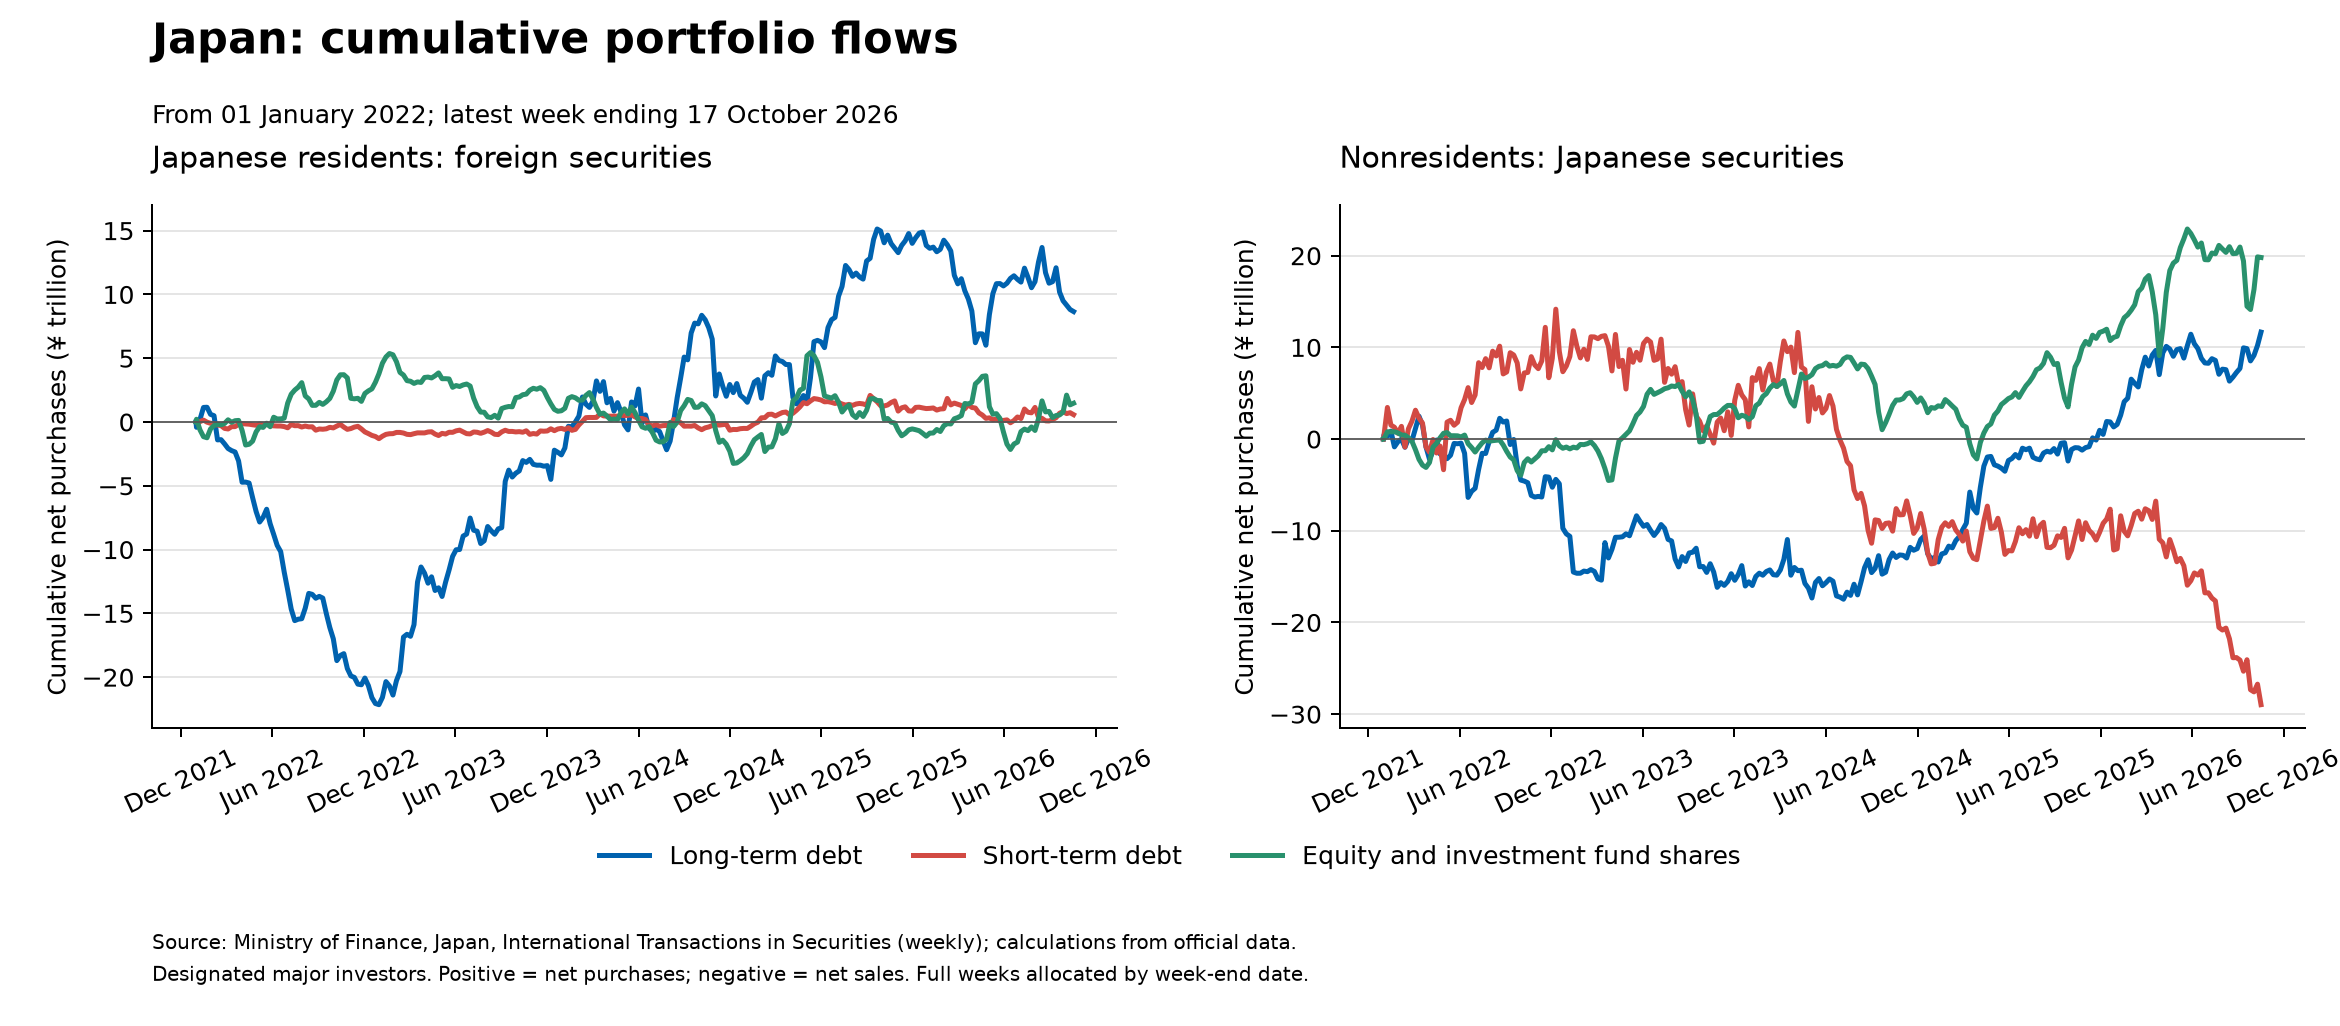
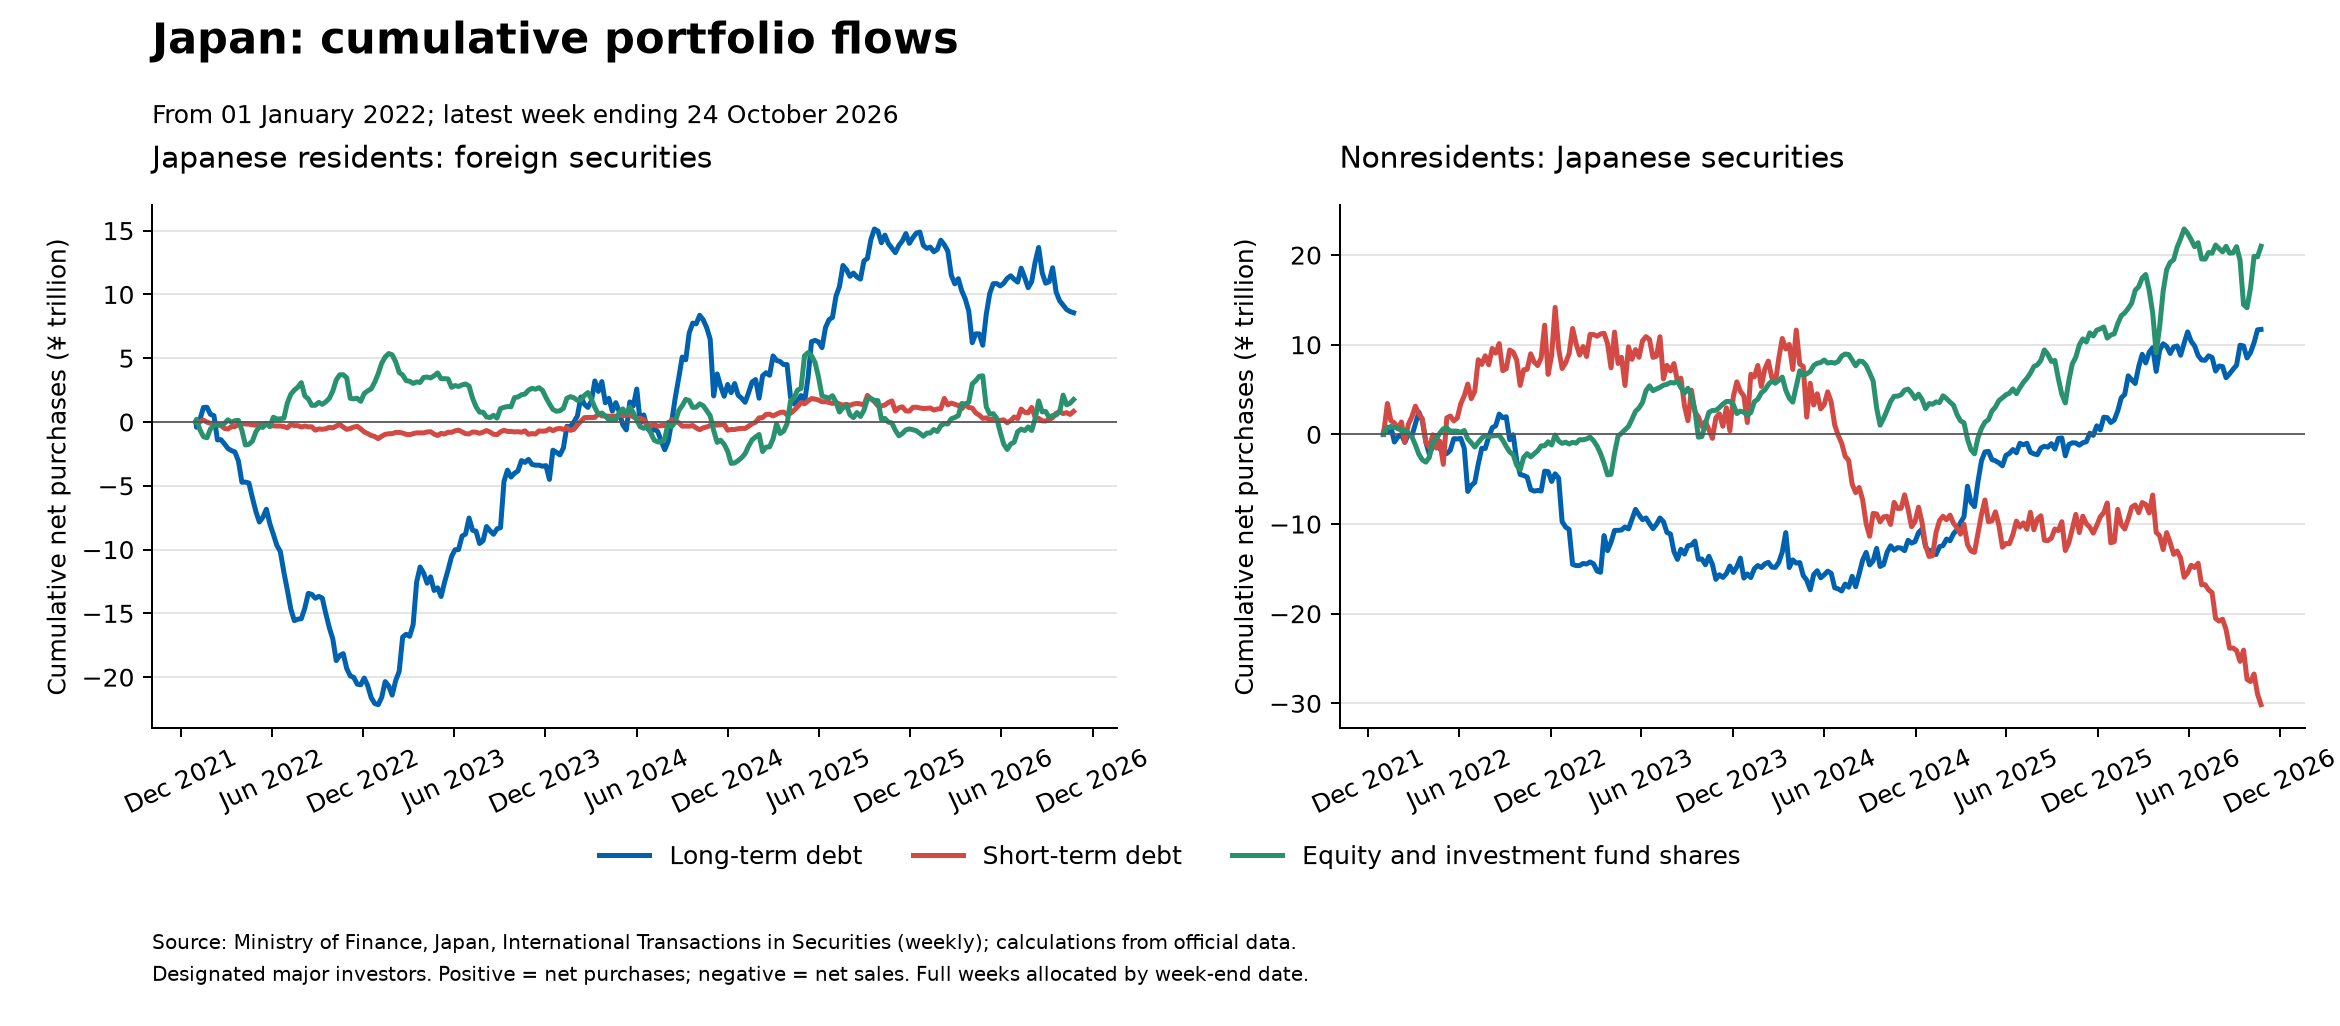
Refresh approved Japan portfolio charts and display status

diff --git a/public/reports/japan-portfolio/index.html b/public/reports/japan-portfolio/index.html
@@ -1,4 +1,4 @@
 <!doctype html><html lang="en"><head><meta charset="utf-8"><meta name="viewport" content="width=device-width,initial-scale=1"><title>Japan portfolio flows — Daily Market Monitor</title>
 <style>:root{color-scheme:light dark;--bg:#f4f6f8;--fg:#243746;--card:white;--border:#dce4ea;--muted:#596b78;--accent:#183f5c}@media(prefers-color-scheme:dark){:root{--bg:#020617;--fg:#e2e8f0;--card:#0f172a;--border:#475569;--muted:#94a3b8;--accent:#c7d2fe}}*{box-sizing:border-box}body{margin:0;background:var(--bg);color:var(--fg);font:15px/1.55 system-ui,sans-serif}main{max-width:1500px;margin:auto;padding:30px 28px}h1{font-size:29px;color:var(--accent);margin:0 0 8px}h2{font-size:21px;color:var(--accent)}.intro,.source{color:var(--muted)}.card{background:var(--card);border:1px solid var(--border);border-radius:12px;padding:24px;margin:24px 0}.notice{border-left:4px solid #b65330;padding:14px 20px}.source{font-size:12px;overflow-wrap:anywhere}img{width:100%;height:auto;display:block;background:white;border-radius:6px}a{color:var(--accent)}@media(max-width:650px){main{padding:18px 10px}.card{padding:15px 10px}h1{font-size:24px}}</style></head><body><main><p><a href="../../">← Daily Market Monitor</a></p><h1>Japan portfolio flows</h1><p class="intro">Cross-border investment and domestic JGB purchases · yen trillion</p>
-<div class="card notice"><strong>complete / live sources checked</strong><p>Live source check attempted: 2026-10-27T16:11:16.835830+00:00. Observation dates and input vintage are shown per chart. “Unchanged” means values match the previous successful source check; it does not imply a new observation. Failures retain the last complete component and show a warning. Click a chart for its full-resolution PNG.</p></div>
-<section class="card"><h2>Cross-border portfolio flows since 2022</h2><p>Cumulative net purchases from January 2022, yen trillion. Residents: foreign equities +1.47, foreign long-term debt +8.66, foreign short-term debt +0.57. Nonresidents: Japanese equities +19.80, Japanese long-term debt +11.66, Japanese short-term debt -28.97. Positive values mean net purchases; negative values mean net sales.</p><p class="source">MOF weekly securities transactions · Latest observation: 2026-10-17 · Status: unchanged · New periods: 0 · Prior history revised: False · Last successful check: 2026-10-27T16:11:16.835830+00:00 · Final Update  October  22 , 2026</p><p></p><a href="portfolio_flows.png"><img src="portfolio_flows.png" alt="Cross-border portfolio flows since 2022" loading="lazy"></a></section><section class="card"><h2>Cross-border portfolio flows rebased to 2026</h2><p>Cumulative net purchases from January 2026, yen trillion. Residents: foreign equities +2.58, foreign long-term debt -5.18, foreign short-term debt -0.48. Nonresidents: Japanese equities +8.72, Japanese long-term debt +10.34, Japanese short-term debt -16.87. Positive values mean net purchases; negative values mean net sales.</p><p class="source">MOF weekly securities transactions · Latest observation: 2026-10-17 · Status: unchanged · New periods: 0 · Prior history revised: False · Last successful check: 2026-10-27T16:11:16.835830+00:00 · Final Update  October  22 , 2026</p><p></p><a href="portfolio_flows_recent.png"><img src="portfolio_flows_recent.png" alt="Cross-border portfolio flows rebased to 2026" loading="lazy"></a></section><section class="card"><h2>Who is buying coupon-bearing JGBs?</h2><p>Rolling five calendar month net purchases, yen trillion; displayed since 2022. Latest all coupon-bearing totals — City banks &amp; long-term credit banks: +0.11; Foreign investors: +5.53; Life &amp; non-life insurers: +2.42; Others (JSDA category): -25.75; Regional banks: +2.15; Trust banks: +7.77. Super-long-, long- and medium-term maturity groups are shown separately. Nominal/face value; excludes Treasury bills and discount bonds. Others (JSDA category) uses the six directly reported Others purchase/sale series, not overall minus the displayed sectors. This mixed category includes government auction allocations, BoJ operations and other institutions. It is not pure BoJ activity or aggregate private investor demand. Net purchases are purchases minus sales from the investor/counterparty perspective.</p><p class="source">JSDA via Haver Analytics · Latest observation: 2026-09-30 · Status: unchanged · New periods: 0 · Prior history revised: False · Last successful check: 2026-10-27T16:11:16.835830+00:00 · Haver snapshot: 2026-10-27T15:30:12+00:00 · Source commit: 074dcfe4561a15bbd37a59e05f33df341b8ff2ac</p><p></p><a href="jsda/rolling_jgb_purchases.png"><img src="jsda/rolling_jgb_purchases.png" alt="Who is buying coupon-bearing JGBs?" loading="lazy"></a></section><section class="card"><h2>Interpretation and updates</h2><p>Domestic JGB buying and foreign-security sales do not identify the same investors and cannot by themselves establish repatriation. MOF long-term debt includes securities beyond JGBs. Cumulative flows measure transactions, not holdings or valuation gains. MOF full weeks are allocated by week-end date; JSDA uses five calendar months, never five nonmissing observations.</p><p>The daily dashboard refreshes at 13:00 and 22:00 UTC. Portfolio charts refresh Thursdays at 10:00 America/New_York (GitHub scheduling is best effort). Every check uses official MOF data and one commit-pinned Haver snapshot; Haver is an upstream snapshot, not a direct vendor refresh. Last successful observation dates remain visible if a component fails.</p></section></main></body></html>
+<div class="card notice"><strong>complete / live sources checked</strong><p>Live source check attempted: 2026-10-29T14:11:57.444452+00:00. Observation dates and input vintage are shown per chart. “Unchanged” means values match the previous successful source check; it does not imply a new observation. Failures retain the last complete component and show a warning. Click a chart for its full-resolution PNG.</p></div>
+<section class="card"><h2>Cross-border portfolio flows since 2022</h2><p>Cumulative net purchases from January 2022, yen trillion. Residents: foreign equities +1.76, foreign long-term debt +8.56, foreign short-term debt +0.83. Nonresidents: Japanese equities +20.98, Japanese long-term debt +11.71, Japanese short-term debt -30.15. Positive values mean net purchases; negative values mean net sales.</p><p class="source">MOF weekly securities transactions · Latest observation: 2026-10-24 · Status: revised · New periods: 1 · Prior history revised: True · Last successful check: 2026-10-29T14:11:57.444452+00:00 · Final Update  October  29 , 2026</p><p></p><a href="portfolio_flows.png"><img src="portfolio_flows.png" alt="Cross-border portfolio flows since 2022" loading="lazy"></a></section><section class="card"><h2>Cross-border portfolio flows rebased to 2026</h2><p>Cumulative net purchases from January 2026, yen trillion. Residents: foreign equities +2.87, foreign long-term debt -5.27, foreign short-term debt -0.22. Nonresidents: Japanese equities +9.90, Japanese long-term debt +10.38, Japanese short-term debt -18.05. Positive values mean net purchases; negative values mean net sales.</p><p class="source">MOF weekly securities transactions · Latest observation: 2026-10-24 · Status: revised · New periods: 1 · Prior history revised: True · Last successful check: 2026-10-29T14:11:57.444452+00:00 · Final Update  October  29 , 2026</p><p></p><a href="portfolio_flows_recent.png"><img src="portfolio_flows_recent.png" alt="Cross-border portfolio flows rebased to 2026" loading="lazy"></a></section><section class="card"><h2>Who is buying coupon-bearing JGBs?</h2><p>Rolling five calendar month net purchases, yen trillion; displayed since 2022. Latest all coupon-bearing totals — City banks &amp; long-term credit banks: +0.11; Foreign investors: +5.53; Life &amp; non-life insurers: +2.42; Others (JSDA category): -25.75; Regional banks: +2.15; Trust banks: +7.77. Super-long-, long- and medium-term maturity groups are shown separately. Nominal/face value; excludes Treasury bills and discount bonds. Others (JSDA category) uses the six directly reported Others purchase/sale series, not overall minus the displayed sectors. This mixed category includes government auction allocations, BoJ operations and other institutions. It is not pure BoJ activity or aggregate private investor demand. Net purchases are purchases minus sales from the investor/counterparty perspective.</p><p class="source">JSDA via Haver Analytics · Latest observation: 2026-09-30 · Status: unchanged · New periods: 0 · Prior history revised: False · Last successful check: 2026-10-29T14:11:57.444452+00:00 · Haver snapshot: 2026-10-28T16:59:46+00:00 · Source commit: d413df802cfbc649a20a518eccb3dddb83f6fbd0</p><p></p><a href="jsda/rolling_jgb_purchases.png"><img src="jsda/rolling_jgb_purchases.png" alt="Who is buying coupon-bearing JGBs?" loading="lazy"></a></section><section class="card"><h2>Interpretation and updates</h2><p>Domestic JGB buying and foreign-security sales do not identify the same investors and cannot by themselves establish repatriation. MOF long-term debt includes securities beyond JGBs. Cumulative flows measure transactions, not holdings or valuation gains. MOF full weeks are allocated by week-end date; JSDA uses five calendar months, never five nonmissing observations.</p><p>The daily dashboard refreshes at 13:00 and 22:00 UTC. Portfolio charts refresh Thursdays at 10:00 America/New_York (GitHub scheduling is best effort). Every check uses official MOF data and one commit-pinned Haver snapshot; Haver is an upstream snapshot, not a direct vendor refresh. Last successful observation dates remain visible if a component fails.</p></section></main></body></html>
